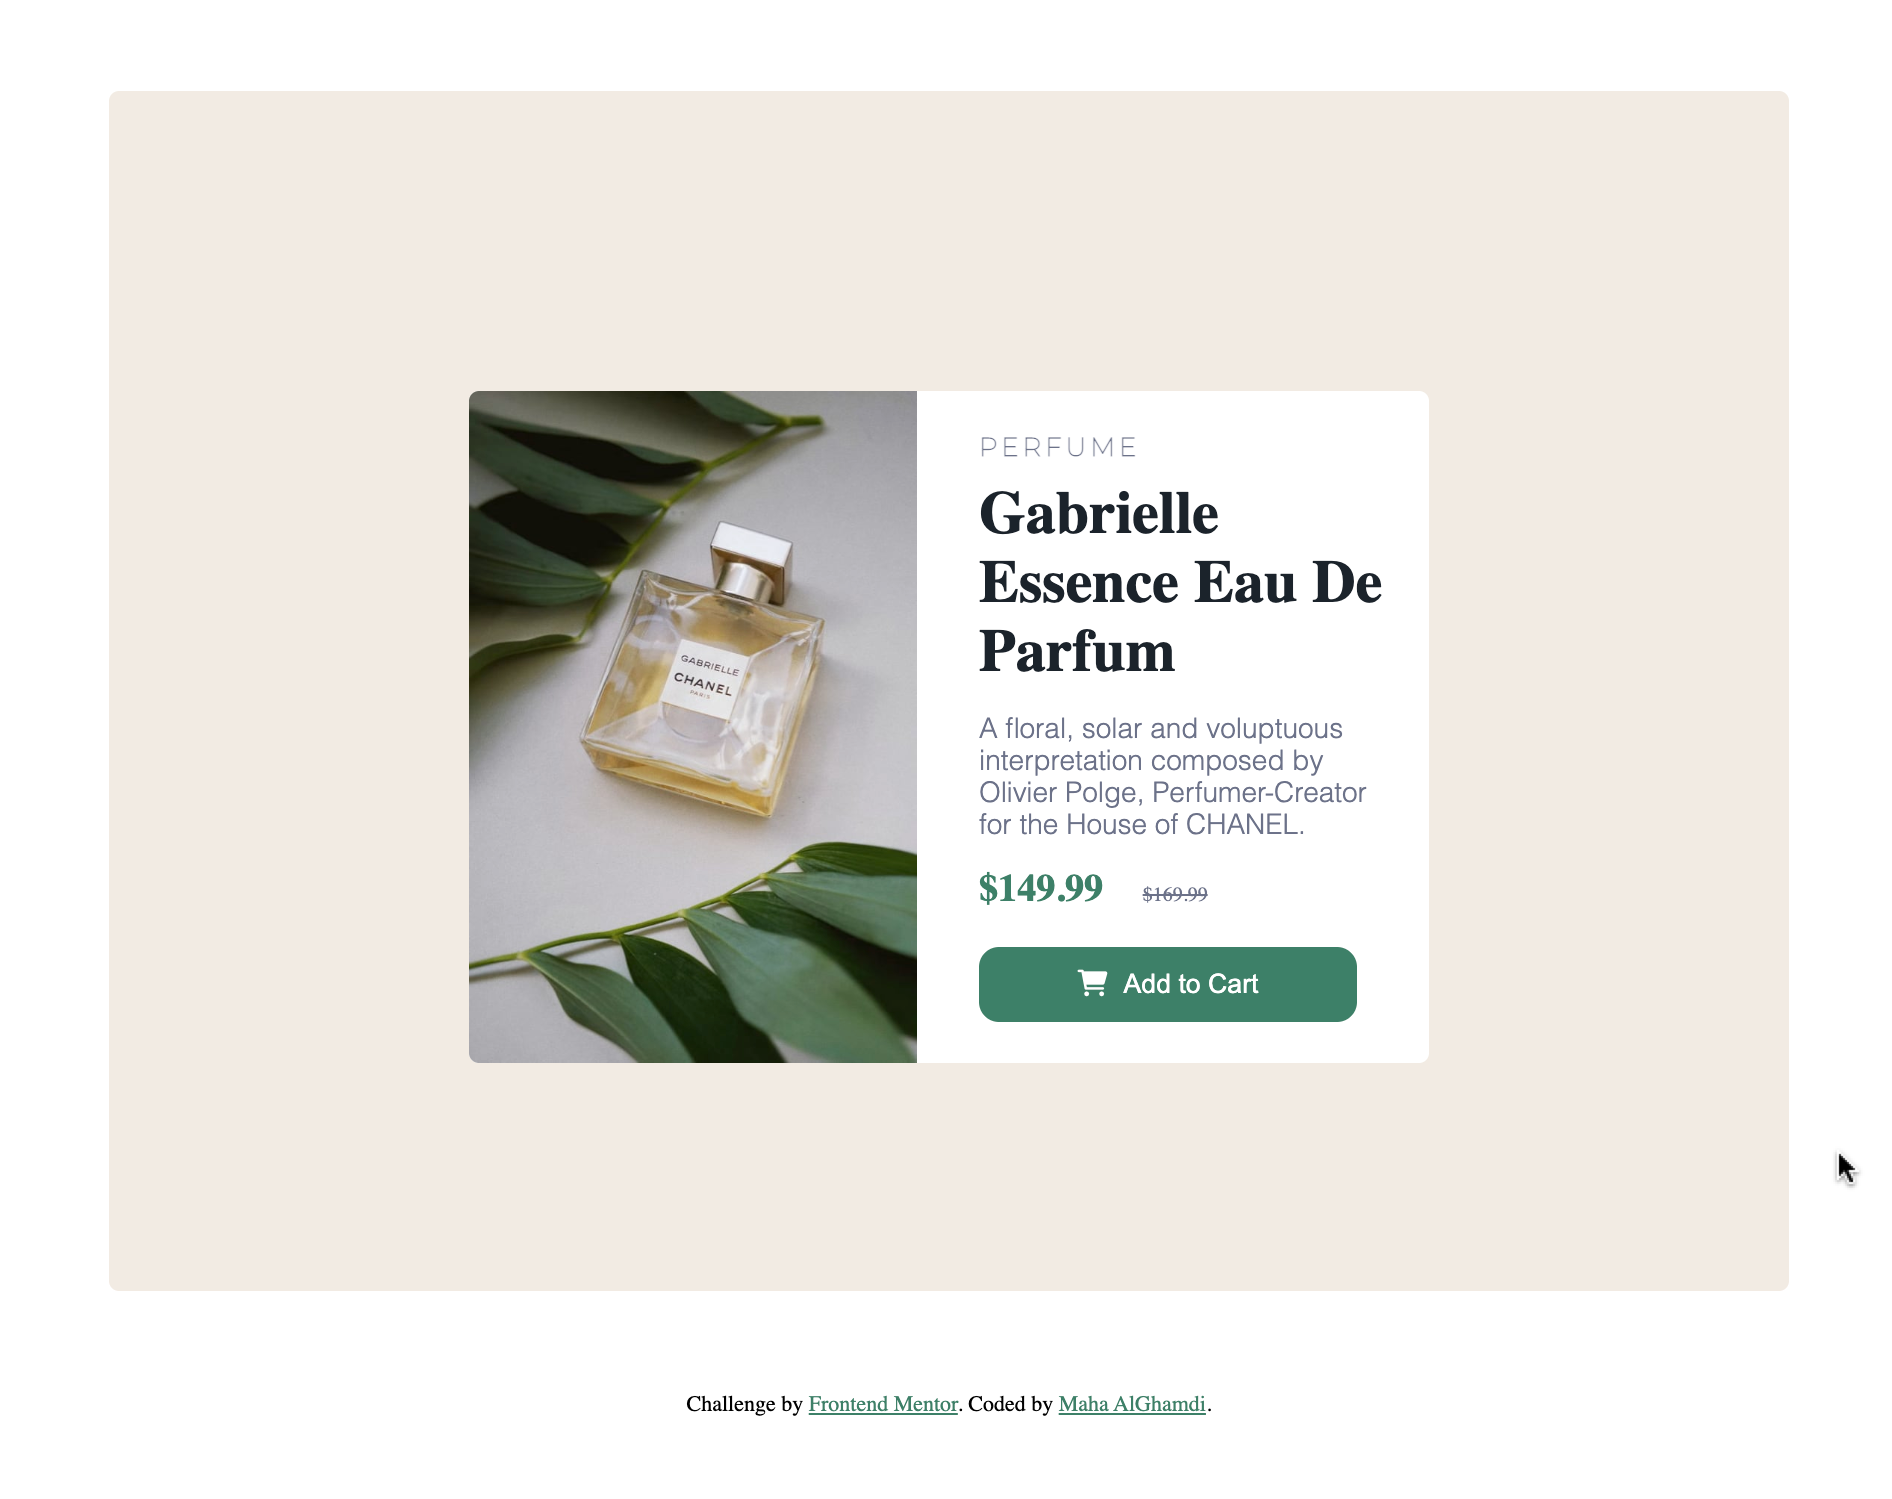
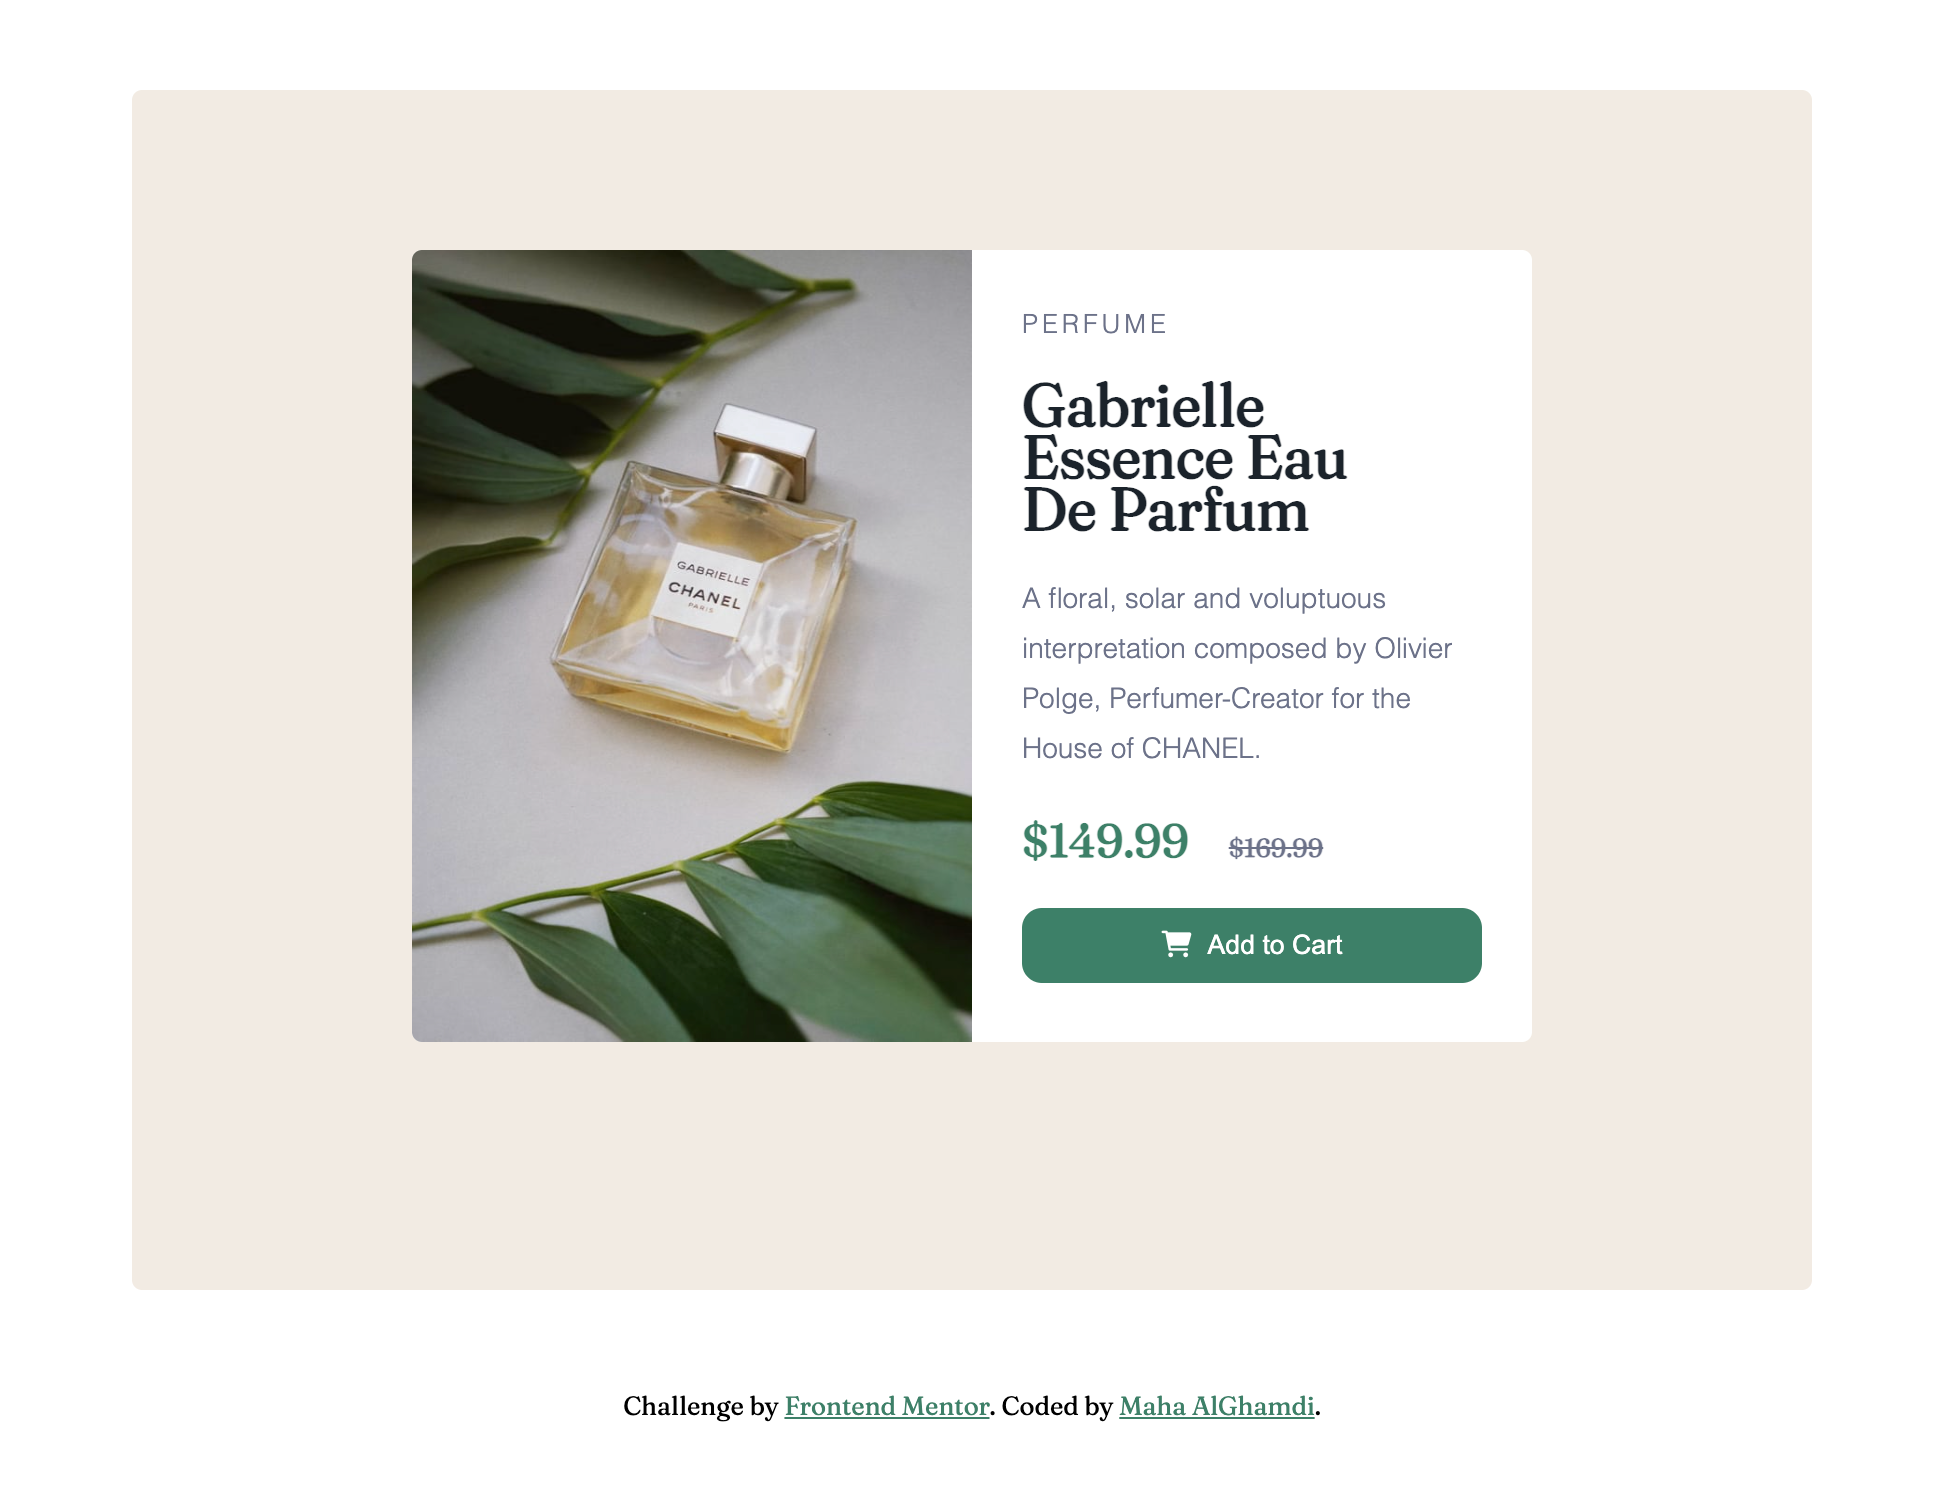
Modified some sizes to fit the design

Changed region(s): [[0.1871, 0.1545, 0.8108, 0.7105], [0.0312, 0.0618, 0.9979, 0.865], [0.3118, 0.9268, 0.686, 0.9577]]

diff --git a/style.css b/style.css
@@ -1,5 +1,5 @@
-@import url('https://fonts.googleapis.com/css2?family=Montserrat:wght@100&display=swap');
-@import url('https://fonts.googleapis.com/css2?family=Montserrat:wght@100&display=swap');
+@import url('https://fonts.googleapis.com/css2?family=Fraunces:opsz@9..144&display=swap');
+
 
 *{
     box-sizing: border-box;
@@ -10,6 +10,7 @@
 body{
     width: 1200px;
     margin: 0 auto;
+    font-family: 'Fraunces', serif;
 }
 
 .container{
@@ -22,6 +23,7 @@ body{
 }
 
 img{
+    width: 50%;
     border-top-left-radius: 5px;
     border-bottom-left-radius: 5px;
     
@@ -30,9 +32,9 @@ img{
 .card{
     background-color: #fff;
     border-radius: 5px;
-    width: 60%;
-    height: 60%;
-    margin: 130px auto;
+    width: 560px;
+    height: 396px;
+    margin: 60px auto;
     display: flex;
     justify-content: space-between;
     position: relative;
@@ -40,47 +42,51 @@ img{
 
 .info{
     width: 50%;
-    padding: 10px 15px;
+    padding: 10px 25px;
+    display: flex;
+    flex-direction: column;
+    justify-content: space-evenly;
+    align-content: center;
+    align-items: flex-start;
+
 }
 
 h4{
-    padding-top: 10px;
     letter-spacing: 2px;
     text-transform: uppercase;
     color: hsl(228, 12%, 48%);
     font-size: 13px;
     font-family: 'Montserrat', sans-serif;
-    font-weight: bolder;
+    font-weight: lighter;
 }
 h1{
     font-size: 30px;
     color: hsl(212, 21%, 14%);
-    padding: 8px 0;
+    line-height: 26px;
+    font-weight: bolder;
 }
 p{
     font-size: 14px;
     color: hsl(228, 12%, 48%);
-    padding: 5px 0;
     font-family:  sans-serif;
     font-weight: lighter;
+    line-height: 25px;
 }
 .price{
-    margin: 8px 0;
     color: hsl(158, 36%, 37%);
-    font-size: 23px;
+    font-size: 28px;
+    font-weight: bolder;
 }
 .price span{
     color: hsl(228, 12%, 48%);
     text-decoration: line-through;
-    font-size: 10px;
+    font-size: 13px;
     margin-left: 15px;
-    font-weight: normal;
 }
 
 button{
-    margin: 10px 0;
-    padding: 10px 10px;
-    width: 90%;
+    padding: 10px;
+    width: 100%;
     background-color: hsl(158, 36%, 37%);
     border: 1px solid hsl(158, 36%, 37%);
     border-radius: 10px;
@@ -95,7 +101,8 @@ button i{
 }
 
 .attribution {
-    font-size: 11px; 
+    margin: 20px;
+    font-size: 13px; 
     text-align: center; 
 }
 .attribution a { 

diff --git a/index.html b/index.html
@@ -20,7 +20,7 @@
       <div class="info">
         <h4>perfume</h4> 
         
-        <h1>Gabrielle Essence Eau De Parfum</h1>
+        <h1><b>Gabrielle <br> Essence Eau <br>De Parfum</b></h1>
         
         <p>A floral, solar and voluptuous interpretation composed by Olivier Polge, 
           Perfumer-Creator for the House of CHANEL.</p>
